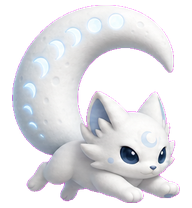
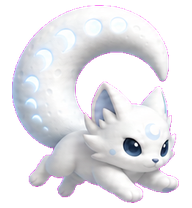
feat: animate Lumi across multiple directions

diff --git a/tests/renderer/petSprite.test.ts b/tests/renderer/petSprite.test.ts
@@ -3,7 +3,7 @@ import { petAnimationFor, petAnimationStateFor } from '../../src/renderer/src/ut
 
 describe('pet sprite projection', () => {
   it('collapses every public pet fact into only running or completed visuals', () => {
-    expect(petAnimationFor('running')).toMatchObject({ row: 0, frames: 6, loop: true })
+    expect(petAnimationFor('running')).toMatchObject({ row: 0, frames: 8, loop: true })
     for (const status of ['idle', 'waiting', 'completed', 'failed', 'review', 'disconnected'] as const) {
       expect(petAnimationStateFor(status)).toBe('completed')
       expect(petAnimationFor(status)).toMatchObject({ row: 1, frames: 1, loop: false })

diff --git a/src/renderer/src/utils/petSprite.ts b/src/renderer/src/utils/petSprite.ts
@@ -17,7 +17,7 @@ export interface PetSpriteAnimation {
 }
 
 const TWO_STATE_ANIMATIONS = {
-  running: { row: 0, frames: 6, durations: [150, 140, 130, 130, 140, 150], loop: true },
+  running: { row: 0, frames: 8, durations: [145, 135, 135, 135, 145, 135, 135, 135], loop: true },
   completed: { row: 1, frames: 1, durations: [0], loop: false }
 } as const satisfies Record<'running' | 'completed', PetSpriteAnimation>
 

diff --git a/src/renderer/src/components/LumiSprite.vue b/src/renderer/src/components/LumiSprite.vue
@@ -92,7 +92,7 @@ onBeforeUnmount(() => {
   position: absolute;
   top: calc(var(--lumi-row) * -104px);
   left: calc(var(--lumi-column) * -96px);
-  width: 576px;
+  width: 768px;
   height: 208px;
   max-width: none;
   pointer-events: none;

diff --git a/scripts/assemble-two-state-pet-atlas.py b/scripts/assemble-two-state-pet-atlas.py
@@ -11,7 +11,6 @@ from PIL import Image
 
 CELL_WIDTH = 192
 CELL_HEIGHT = 208
-COLUMNS = 6
 ROWS = 2
 
 
@@ -55,14 +54,21 @@ def main() -> None:
     args = parser.parse_args()
 
     running_root = Path(args.running_frames).expanduser().resolve()
-    running_paths = [running_root / f"{index:02d}.png" for index in range(COLUMNS)]
-    missing = [path for path in running_paths if not path.is_file()]
-    if missing:
-        raise SystemExit(f"missing running frames: {', '.join(str(path) for path in missing)}")
+    running_paths = sorted(running_root.glob("[0-9][0-9].png"))
+    if not running_paths:
+        raise SystemExit(f"no numbered running frames found in {running_root}")
+    expected_names = [f"{index:02d}.png" for index in range(len(running_paths))]
+    actual_names = [path.name for path in running_paths]
+    if actual_names != expected_names:
+        raise SystemExit(
+            "running frames must be consecutively numbered from 00.png; "
+            f"found {', '.join(actual_names)}"
+        )
+    columns = len(running_paths)
 
     atlas = Image.new(
         "RGBA",
-        (COLUMNS * CELL_WIDTH, ROWS * CELL_HEIGHT),
+        (columns * CELL_WIDTH, ROWS * CELL_HEIGHT),
         (0, 0, 0, 0),
     )
     for column, path in enumerate(running_paths):

diff --git a/design/pets/lumi-run/qa/design-qa.md b/design/pets/lumi-run/qa/design-qa.md
@@ -1,16 +1,20 @@
 # Lumi Two-State Pet Design QA
 
 - Source visual truth: `design/pets/lumi-run/references/selected-concept.png`
+- Multi-direction source strip: `design/pets/lumi-run/decoded/running.png`
 - Implementation screenshots:
-  - `design/pets/lumi-run/qa/implementation-running-full.png`
-  - `design/pets/lumi-run/qa/implementation-completed-full.png`
-- Combined comparison evidence: `design/pets/lumi-run/qa/source-vs-implementation.png`
+  - `design/pets/lumi-run/qa/implementation-running-direction-0.jpg`
+  - `design/pets/lumi-run/qa/implementation-running-direction-2.jpg`
+  - `design/pets/lumi-run/qa/implementation-running-direction-4.jpg`
+  - `design/pets/lumi-run/qa/implementation-running-direction-6.jpg`
+  - `design/pets/lumi-run/qa/implementation-completed-multidirectional-atlas.jpg`
+- Combined comparison evidence: `design/pets/lumi-run/qa/source-vs-implementation-multidirectional.jpg`
 - Browser route: `http://127.0.0.1:4173/?pet-window=1&pet-fixture=running`
 - Browser viewport: `240 × 160` CSS px (the in-app Browser enforces this minimum)
 - Production Electron pet window: `112 × 140` CSS px
-- Source pixels: `1536 × 1024`, containing both selected poses
+- Source pixels: selected concept `1536 × 1024`; multi-direction strip `2048 × 768`
 - Implementation pixels: `240 × 160` per browser screenshot; sprite slot `96 × 104` CSS px
-- Atlas density: `192 × 208` px per cell rendered at `96 × 104` CSS px (2× source density)
+- Atlas: `1536 × 416` px; `192 × 208` px per cell rendered at `96 × 104` CSS px (2× source density)
 - States: running animation and completed/static
 
 The existing project-root `design-qa.md` belongs to the main workspace QA and was deliberately preserved. This pet-specific report is colocated with Lumi's source and browser evidence.
@@ -19,7 +23,7 @@ The existing project-root `design-qa.md` belongs to the main workspace QA and wa
 
 No actionable P0, P1, or P2 mismatch remains.
 
-- Running: the implementation preserves the white lunar fox, forward working pose, dark blue eyes, forehead crescent, and oversized moon-phase tail. Six frames provide visible motion without adding a third visual state.
+- Running: the implementation preserves the white lunar fox, dark blue eyes, forehead crescent, and oversized moon-phase tail. Eight frames move through right, front, and left-facing poses without adding a third visual state.
 - Completed: the implementation preserves the sleeping fox nested inside the circular crescent tail and remains fully static.
 - The slightly softer appearance in the comparison board comes from enlarging a `96 × 104` runtime sprite for inspection; the native 2× atlas remains sharp at its intended desktop-pet size.
 
@@ -33,25 +37,26 @@ No actionable P0, P1, or P2 mismatch remains.
 
 ## Interaction and State Evidence
 
-- Running fixture maps to atlas row `0`; the observed frame advanced from column `0` to column `3` after 420 ms.
+- Running fixture maps to atlas row `0`; the eight-frame loop changes direction across right, front, and left-facing poses.
+- Browser observation advanced from column `5` to column `1` in 610 ms, confirming that the complete eight-frame loop plays.
 - Completed fixture maps to atlas row `1`, column `0`, with one non-looping frame.
 - Dragging moves the pet window without introducing a separate character pose.
 - `prefers-reduced-motion: reduce` holds the running state on its first frame.
-- Browser console: 0 warnings, 0 errors.
+- The atlas loaded at its expected natural size (`1536 × 416`), the fallback class was absent, and no image-load or layout failure appeared.
 
 ## Focused Region Evidence
 
-No additional crop was required because the character is the only visible design surface and fills the combined comparison board at a readable inspection size. The board shows both source poses directly above their corresponding implementation states.
+The combined board places the complete generated source strip above four browser-captured checkpoints (right, front, left, front). This is sufficient because the character is the only visible design surface and every directional landmark remains readable at the captured pet size.
 
 ## Comparison History
 
-- Initial comparison: no actionable P0/P1/P2 issue identified.
-- Fix iteration: none required.
-- Post-fix evidence: not applicable.
+- Initial multi-direction source: P2 continuity issue—after a screen-left frame, the next two frames flipped back to screen-right, creating a visible direction snap.
+- Fix iteration: regenerated only the failing transition so frames `4–6` remain three-quarter-left, left, and three-quarter-left while preserving Lumi's identity, scale, palette, and tail.
+- Post-fix evidence: `source-vs-implementation-multidirectional.jpg` shows the repaired right → front → left → front loop in both source and runtime captures, with no remaining P0/P1/P2 mismatch.
 
 ## Implementation Checklist
 
-- [x] Running state is animated with six looping frames.
+- [x] Running state is animated with eight multi-direction looping frames.
 - [x] Completed/ended states use one static frame.
 - [x] Public task states collapse to exactly those two pet visuals.
 - [x] Transparent edges, cell bounds, crop, and browser overflow pass validation.

diff --git a/design/pets/lumi-run/prompts/running-multidirectional.md b/design/pets/lumi-run/prompts/running-multidirectional.md
@@ -1,0 +1,25 @@
+Create one coherent eight-frame animation strip for Lumi's single RUNNING task state.
+
+Identity lock:
+- Preserve exactly the selected white lunar fox: oversized crescent moon tail, moon-phase inlays, navy-blue eyes, pale-blue forehead crescent, pearl-white fur, soft cool blue-gray shading, rounded 3D toy/sticker rendering, compact pet-size silhouette.
+- Use the attached selected concept and canonical base as identity truth. Use the prior running strip only for scale, spacing, and active energy; do not copy its one-direction-only pose sequence.
+
+Frame order, left to right:
+1. facing screen-right, alert active bound
+2. three-quarter screen-right, slightly lifted
+3. front-facing, paws forward
+4. three-quarter screen-left, slightly lifted
+5. facing screen-left, alert active bound
+6. three-quarter screen-left, lower landing pose
+7. front-facing, compact rebound
+8. three-quarter screen-right, lower landing pose
+
+Motion must form one smooth closed loop: frame 8 must transition naturally back to frame 1. Direction changes should come from head, eyes, ears, body, paws, and crescent-tail orientation—not from rotating the whole sprite as a flat image. Keep the fox centered on one stable baseline and at one consistent scale. The large moon tail must remain attached and readable in every frame; its moon phases may subtly progress to reinforce activity.
+
+Output requirements:
+- exactly eight complete, separated poses in one horizontal strip, ordered left to right
+- perfectly flat solid #FF00FF chroma-key background
+- generous even padding around every pose; no pose touches another pose or the canvas edge
+- no visible cells, frames, labels, text, guide marks, scenery, floor, shadows, glow, blur, motion trails, speed lines, sparkles, dust, or detached effects
+- no cropped paws, ears, tail, moon phases, or fur
+- no identity, palette, material, facial-proportion, or tail-design drift between frames
